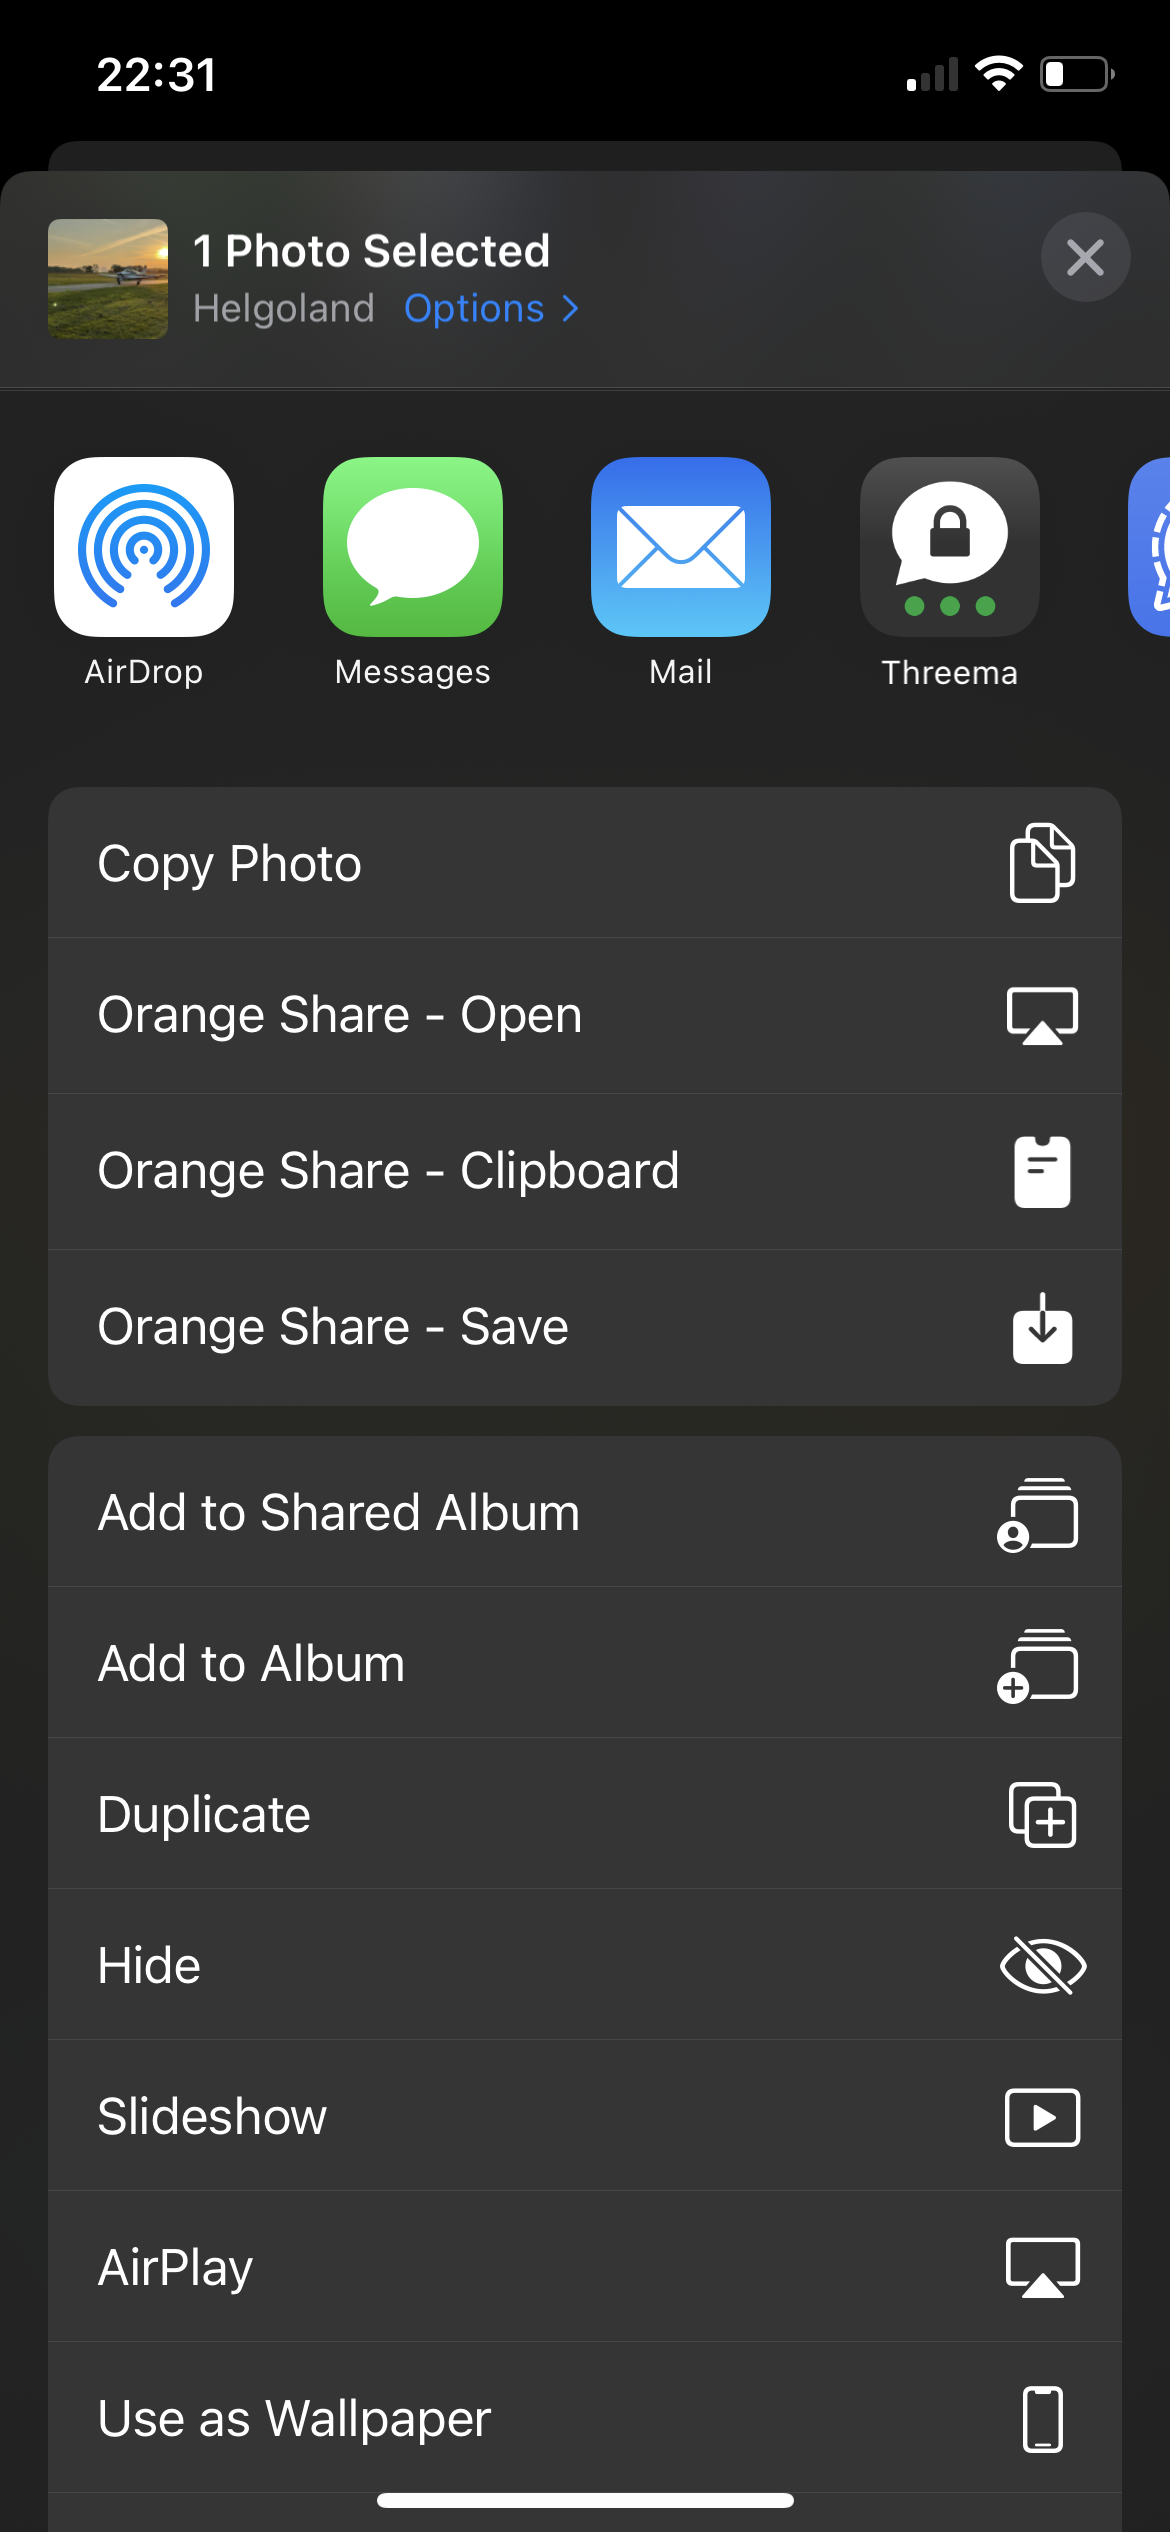
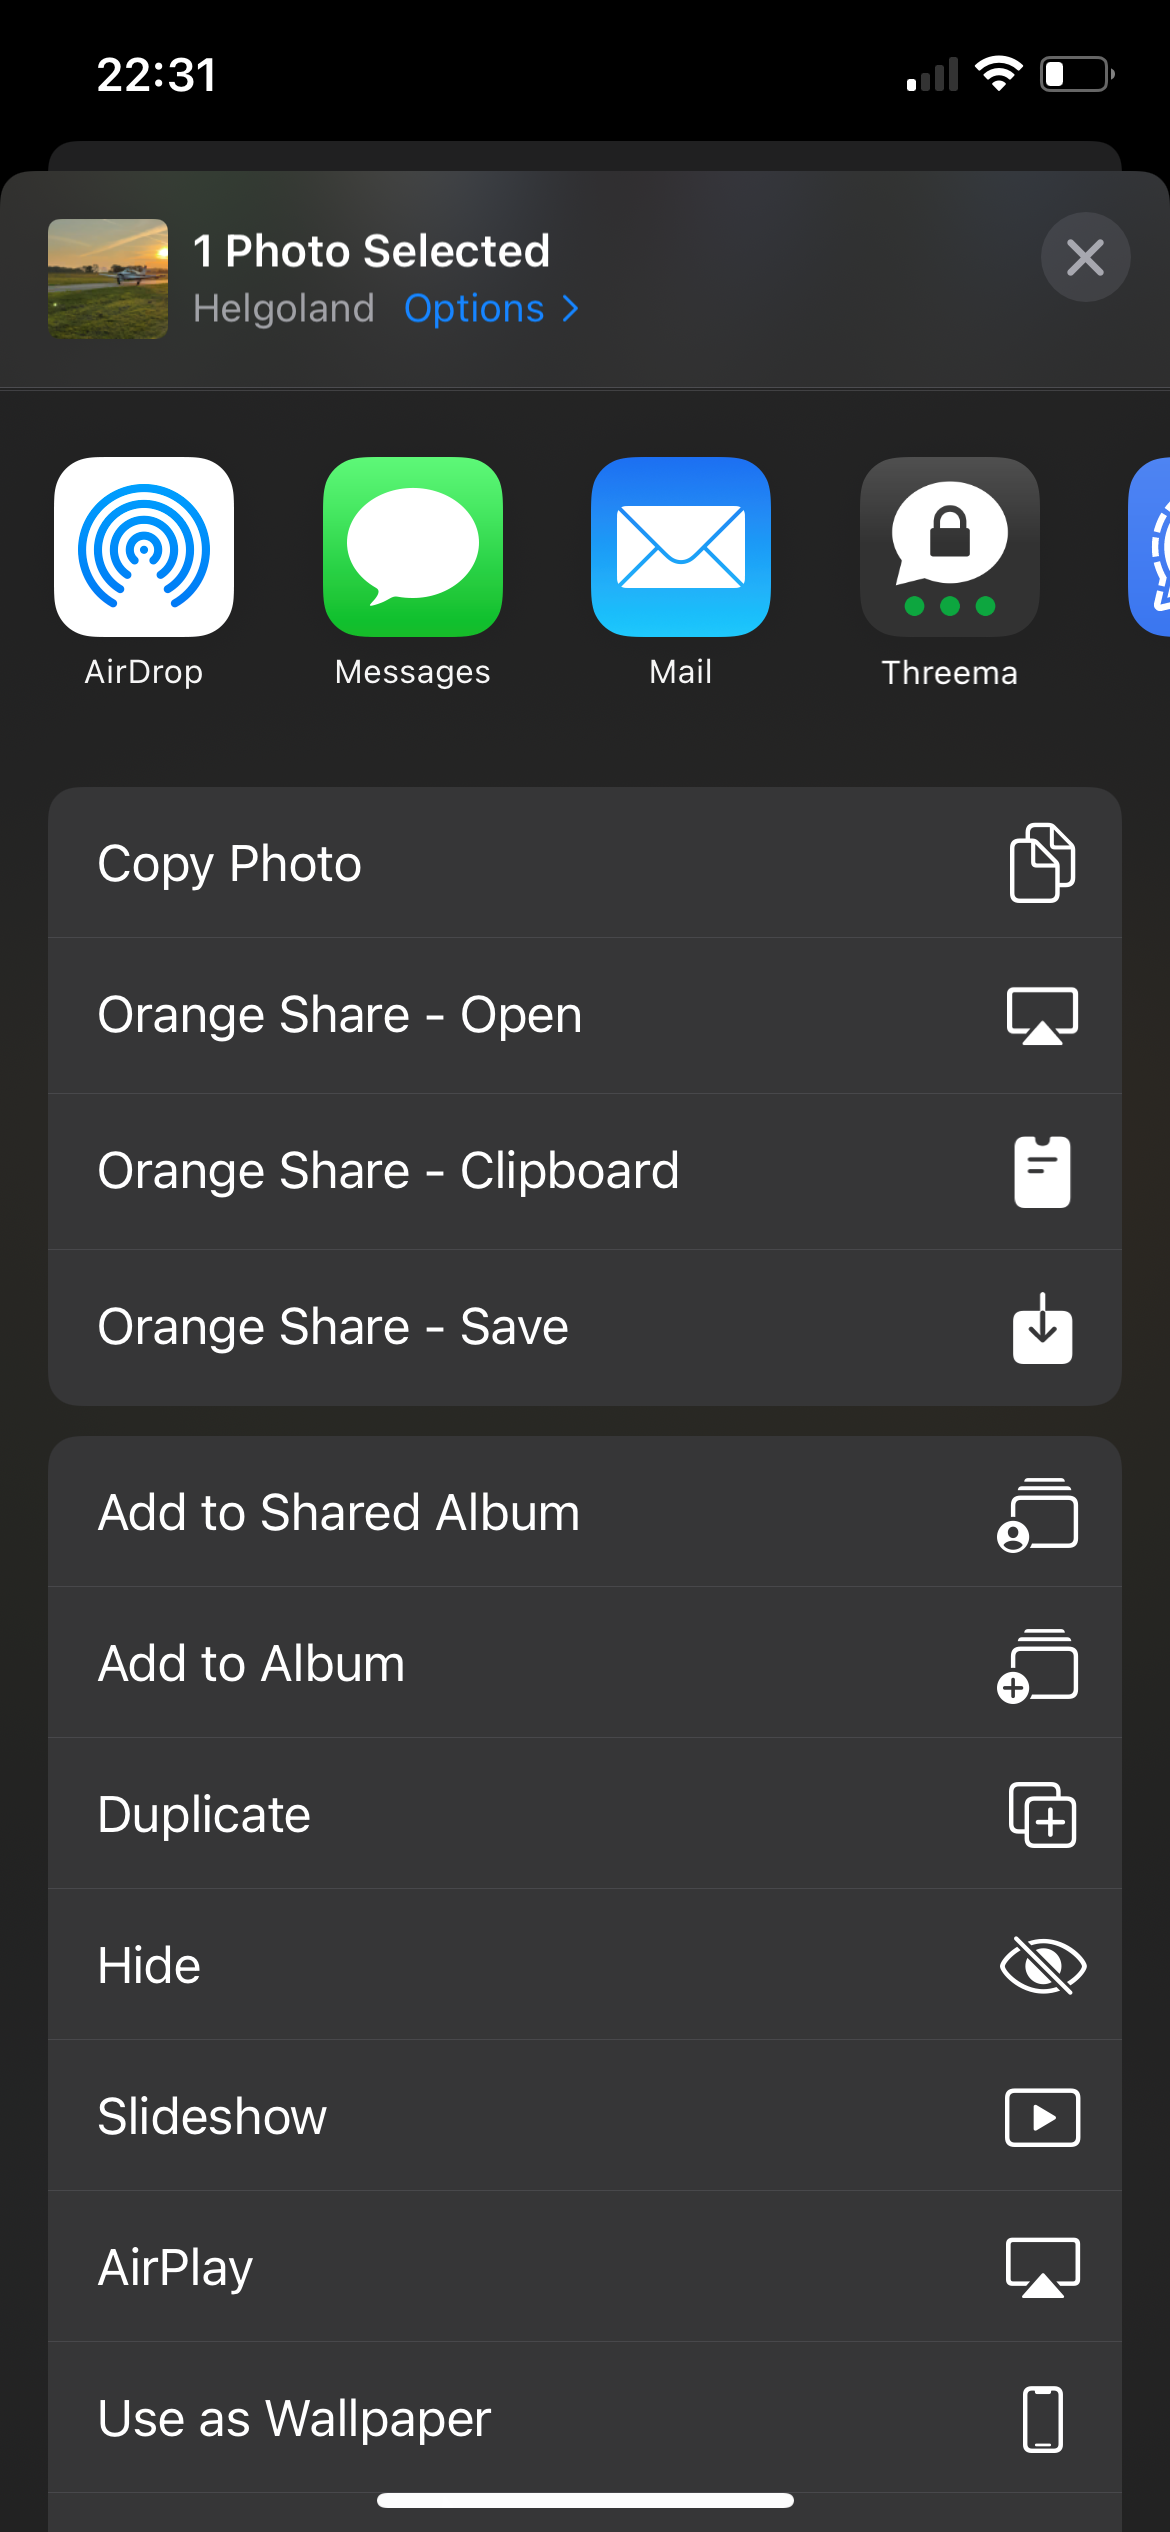
fixed image in README

diff --git a/README.md b/README.md
@@ -97,7 +97,7 @@ This means that whenever you click `share` on the device you can find these shor
 At the bottom of this list you can find an option to edit the shown entries.
 Here you can add the Orange Share shortcuts to your favorites if you want them to always be at the top.
 
-![Share Sheet](images/share_sheet.png)
+<img width="350" src="images/share_sheet.png" alt="Share Sheet">
 
 ### Connection Manager
 
